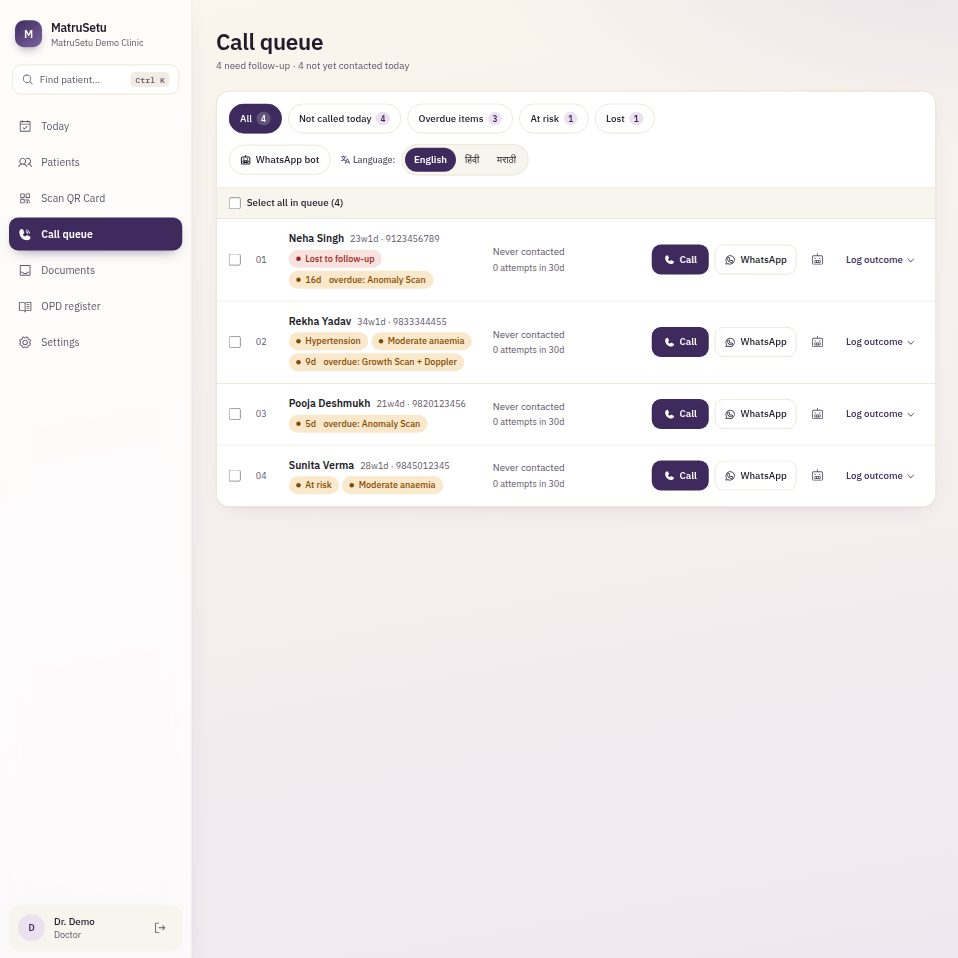
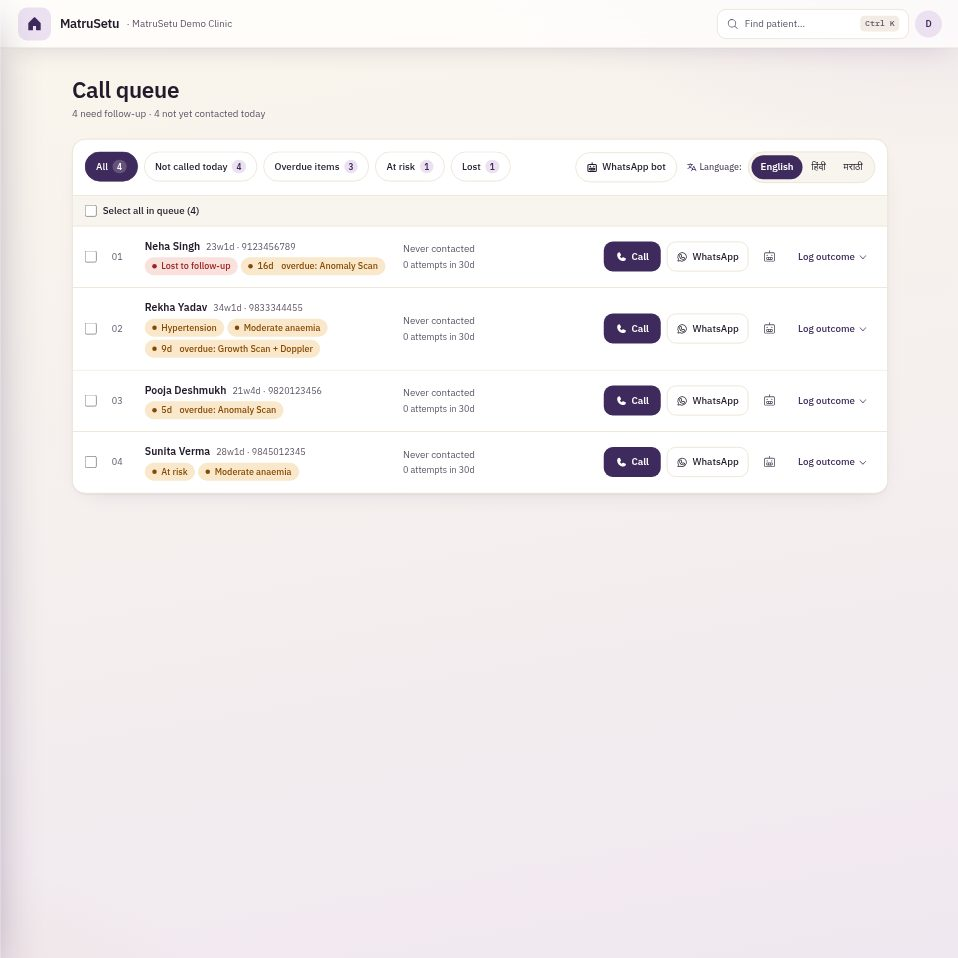
feat(nav): replace fixed sidebar with top bar and slide-in menu
- New AppTopBar on every app page: Home button (opens menu), MatruSetu
  name + clinic, patient search, user initials
- Clicking Home slides the full menu (pages, search, profile, sign out)
  in from the left over a dimmed backdrop; closes on Esc, backdrop
  click, the close button, or choosing a page; focus moves into the menu
  and back to the button; page scroll locked while open
- Page content now uses the full width; mobile bottom tab bar kept
- Landing-page screenshots regenerated to show the new layout

Claude-Session: https://claude.ai/code/session_01CiX3ytQ4sim5xmaV85mrhR

diff --git a/components/AppNav.tsx b/components/AppNav.tsx
@@ -1,6 +1,7 @@
 "use client";
 
 import Link from "next/link";
+import { useCallback, useEffect, useRef, useState } from "react";
 import { usePathname } from "next/navigation";
 import {
   CalendarCheck,
@@ -12,6 +13,8 @@ import {
   MagnifyingGlass,
   SignOut,
   QrCode,
+  House,
+  X,
 } from "@phosphor-icons/react";
 import { logout } from "@/app/(auth)/actions";
 import { openCommandPalette } from "@/components/CommandPalette";
@@ -45,7 +48,7 @@ function initials(name: string): string {
   return ((parts[0]?.[0] ?? "") + (parts.length > 1 ? parts[parts.length - 1][0] : "")).toUpperCase();
 }
 
-export function AppSidebar({
+export function AppTopBar({
   clinicName,
   userName,
   isDoctor,
@@ -55,93 +58,178 @@ export function AppSidebar({
   isDoctor: boolean;
 }) {
   const pathname = usePathname();
+  const [open, setOpen] = useState(false);
+  const menuButtonRef = useRef<HTMLButtonElement>(null);
+  const firstLinkRef = useRef<HTMLAnchorElement>(null);
   const items = isDoctor ? [...NAV_ITEMS, { href: "/settings", label: "Settings", icon: Gear }] : NAV_ITEMS;
 
+  const close = useCallback(() => {
+    setOpen(false);
+    menuButtonRef.current?.focus();
+  }, []);
+
+  // Esc closes; page scroll is locked while the menu is open.
+  useEffect(() => {
+    if (!open) return;
+    firstLinkRef.current?.focus();
+    const onKey = (e: KeyboardEvent) => {
+      if (e.key === "Escape") close();
+    };
+    const prevOverflow = document.body.style.overflow;
+    document.body.style.overflow = "hidden";
+    window.addEventListener("keydown", onKey);
+    return () => {
+      window.removeEventListener("keydown", onKey);
+      document.body.style.overflow = prevOverflow;
+    };
+  }, [open, close]);
+
   return (
-    <aside className="pc-glass sticky top-0 hidden h-dvh w-64 shrink-0 flex-col !rounded-none !border-y-0 !border-l-0 md:flex">
-      <div className="flex items-center gap-3 px-5 pb-4 pt-6">
-        <BrandMark />
-        <div className="min-w-0">
-          <p className="text-[16px] font-semibold tracking-tight text-[var(--color-foreground)]">MatruSetu</p>
-          <p className="truncate text-[12px] text-[var(--color-charcoal)]">{clinicName}</p>
-        </div>
-      </div>
-
-      <button
-        type="button"
-        onClick={openCommandPalette}
-        className="mx-4 mt-1 flex min-h-10 items-center gap-2 rounded-xl border border-[var(--color-border)] bg-[var(--color-background)] px-3 text-left text-[13px] text-[var(--color-charcoal)] transition-colors hover:border-[var(--color-primary)]"
-      >
-        <MagnifyingGlass size={16} aria-hidden />
-        <span className="flex-1">Find patient…</span>
-        <kbd className="rounded-md bg-[var(--color-surface-2)] px-1.5 py-0.5 text-[11px] font-medium">Ctrl K</kbd>
-      </button>
-
-      <nav className="mt-5 flex flex-1 flex-col gap-1 px-3" aria-label="Primary">
-        {items.map(({ href, label, icon: Icon }) => {
-          const active = isActive(pathname, href);
-          return (
-            <Link
-              key={href}
-              href={href}
-              aria-current={active ? "page" : undefined}
-              className={`flex min-h-11 items-center gap-3 rounded-xl px-3 text-[14px] transition-colors duration-150 ${
-                active
-                  ? "bg-[var(--color-primary)] font-semibold text-white shadow-[0_8px_18px_-10px_rgb(62_42_92/0.7)]"
-                  : "text-[var(--color-charcoal)] hover:bg-[var(--color-primary-surface)] hover:text-[var(--color-primary)]"
-              }`}
-            >
-              <Icon size={19} weight={active ? "fill" : "regular"} aria-hidden />
-              {label}
-            </Link>
-          );
-        })}
-      </nav>
-
-      <div className="m-3 flex items-center gap-3 rounded-2xl bg-[var(--color-surface-1)] p-3">
-        <span
-          aria-hidden
-          className="flex h-9 w-9 shrink-0 items-center justify-center rounded-full bg-[var(--color-primary-surface)] text-[12px] font-semibold text-[var(--color-primary)]"
-        >
-          {initials(userName)}
-        </span>
-        <div className="min-w-0 flex-1">
-          <p className="truncate text-[13px] font-medium text-[var(--color-foreground)]">{userName}</p>
-          <p className="text-[12px] text-[var(--color-charcoal)]">{isDoctor ? "Doctor" : "Staff"}</p>
-        </div>
-        <form action={logout}>
+    <>
+      <header className="pc-glass sticky top-0 z-30 flex h-16 items-center justify-between gap-3 !rounded-none !border-x-0 !border-t-0 px-3 md:px-6">
+        <div className="flex min-w-0 items-center gap-3">
           <button
-            type="submit"
-            className="flex min-h-9 min-w-9 items-center justify-center rounded-lg text-[var(--color-charcoal)] transition-colors hover:bg-[var(--color-primary-surface)] hover:text-[var(--color-primary)]"
-            aria-label="Sign out"
-            title="Sign out"
+            ref={menuButtonRef}
+            type="button"
+            onClick={() => setOpen(true)}
+            aria-label="Open menu"
+            aria-expanded={open}
+            aria-controls="app-menu"
+            title="Menu"
+            className="flex h-11 w-11 shrink-0 items-center justify-center rounded-xl bg-[var(--color-primary-surface)] text-[var(--color-primary)] transition-colors hover:bg-[var(--color-primary)] hover:text-white"
           >
-            <SignOut size={18} aria-hidden />
+            <House size={22} weight="fill" aria-hidden />
           </button>
-        </form>
-      </div>
-    </aside>
-  );
-}
+          <Link href="/today" className="flex min-w-0 items-center gap-2.5">
+            <span className="text-[17px] font-semibold tracking-tight text-[var(--color-foreground)]">MatruSetu</span>
+            <span className="hidden truncate text-[13px] text-[var(--color-charcoal)] sm:inline">· {clinicName}</span>
+          </Link>
+        </div>
 
-export function AppMobileHeader() {
-  return (
-    <header className="pc-glass sticky top-0 z-20 flex items-center justify-between !rounded-none !border-x-0 !border-t-0 px-4 py-1.5 md:hidden">
-      <span className="flex items-center gap-2.5">
-        <BrandMark />
-        <span className="text-[16px] font-semibold tracking-tight">MatruSetu</span>
-      </span>
-      <div className="flex items-center text-[var(--color-charcoal)]">
-        <button type="button" onClick={openCommandPalette} className="flex min-h-11 min-w-11 items-center justify-center" aria-label="Find patient">
-          <MagnifyingGlass size={21} aria-hidden />
-        </button>
-        <form action={logout}>
-          <button type="submit" className="flex min-h-11 min-w-11 items-center justify-center" aria-label="Sign out">
-            <SignOut size={21} aria-hidden />
+        <div className="flex items-center gap-2">
+          <button
+            type="button"
+            onClick={openCommandPalette}
+            className="hidden min-h-10 w-64 items-center gap-2 rounded-xl border border-[var(--color-border)] bg-[var(--color-background)] px-3 text-left text-[13px] text-[var(--color-charcoal)] transition-colors hover:border-[var(--color-primary)] md:flex"
+          >
+            <MagnifyingGlass size={16} aria-hidden />
+            <span className="flex-1">Find patient…</span>
+            <kbd className="rounded-md bg-[var(--color-surface-2)] px-1.5 py-0.5 text-[11px] font-medium">Ctrl K</kbd>
           </button>
-        </form>
-      </div>
-    </header>
+          <button
+            type="button"
+            onClick={openCommandPalette}
+            className="flex h-11 w-11 items-center justify-center rounded-xl text-[var(--color-charcoal)] hover:bg-[var(--color-primary-surface)] hover:text-[var(--color-primary)] md:hidden"
+            aria-label="Find patient"
+          >
+            <MagnifyingGlass size={21} aria-hidden />
+          </button>
+          <span
+            aria-hidden
+            title={userName}
+            className="hidden h-9 w-9 items-center justify-center rounded-full bg-[var(--color-primary-surface)] text-[12px] font-semibold text-[var(--color-primary)] sm:flex"
+          >
+            {initials(userName)}
+          </span>
+        </div>
+      </header>
+
+      {/* Slide-in menu */}
+      <div
+        aria-hidden
+        onClick={close}
+        className={`fixed inset-0 z-40 bg-[rgb(34_27_43/0.32)] backdrop-blur-[2px] transition-opacity duration-300 ${
+          open ? "opacity-100" : "pointer-events-none opacity-0"
+        }`}
+      />
+      <aside
+        id="app-menu"
+        role="dialog"
+        aria-modal="true"
+        aria-label="Main menu"
+        inert={!open}
+        className={`fixed inset-y-0 left-0 z-50 flex w-72 max-w-[85vw] flex-col bg-[var(--color-background)] shadow-[0_24px_60px_-12px_rgb(62_42_92/0.45)] transition-transform duration-300 ease-out ${
+          open ? "translate-x-0" : "-translate-x-full"
+        }`}
+      >
+        <div className="flex items-center justify-between gap-3 px-5 pb-4 pt-5">
+          <div className="flex min-w-0 items-center gap-3">
+            <BrandMark />
+            <div className="min-w-0">
+              <p className="text-[16px] font-semibold tracking-tight text-[var(--color-foreground)]">MatruSetu</p>
+              <p className="truncate text-[12px] text-[var(--color-charcoal)]">{clinicName}</p>
+            </div>
+          </div>
+          <button
+            type="button"
+            onClick={close}
+            aria-label="Close menu"
+            className="flex h-10 w-10 items-center justify-center rounded-xl text-[var(--color-charcoal)] hover:bg-[var(--color-primary-surface)] hover:text-[var(--color-primary)]"
+          >
+            <X size={20} aria-hidden />
+          </button>
+        </div>
+
+        <button
+          type="button"
+          onClick={() => {
+            setOpen(false);
+            openCommandPalette();
+          }}
+          className="mx-4 flex min-h-10 items-center gap-2 rounded-xl border border-[var(--color-border)] bg-[var(--color-surface-1)] px-3 text-left text-[13px] text-[var(--color-charcoal)] transition-colors hover:border-[var(--color-primary)]"
+        >
+          <MagnifyingGlass size={16} aria-hidden />
+          <span className="flex-1">Find patient…</span>
+          <kbd className="rounded-md bg-[var(--color-background)] px-1.5 py-0.5 text-[11px] font-medium">Ctrl K</kbd>
+        </button>
+
+        <nav className="mt-5 flex flex-1 flex-col gap-1 overflow-y-auto px-3" aria-label="Primary">
+          {items.map(({ href, label, icon: Icon }, i) => {
+            const active = isActive(pathname, href);
+            return (
+              <Link
+                key={href}
+                ref={i === 0 ? firstLinkRef : undefined}
+                href={href}
+                onClick={() => setOpen(false)}
+                aria-current={active ? "page" : undefined}
+                className={`flex min-h-12 items-center gap-3 rounded-xl px-3 text-[15px] transition-colors duration-150 ${
+                  active
+                    ? "bg-[var(--color-primary)] font-semibold text-white shadow-[0_8px_18px_-10px_rgb(62_42_92/0.7)]"
+                    : "text-[var(--color-charcoal)] hover:bg-[var(--color-primary-surface)] hover:text-[var(--color-primary)]"
+                }`}
+              >
+                <Icon size={20} weight={active ? "fill" : "regular"} aria-hidden />
+                {label}
+              </Link>
+            );
+          })}
+        </nav>
+
+        <div className="m-3 flex items-center gap-3 rounded-2xl bg-[var(--color-surface-1)] p-3">
+          <span
+            aria-hidden
+            className="flex h-9 w-9 shrink-0 items-center justify-center rounded-full bg-[var(--color-primary-surface)] text-[12px] font-semibold text-[var(--color-primary)]"
+          >
+            {initials(userName)}
+          </span>
+          <div className="min-w-0 flex-1">
+            <p className="truncate text-[13px] font-medium text-[var(--color-foreground)]">{userName}</p>
+            <p className="text-[12px] text-[var(--color-charcoal)]">{isDoctor ? "Doctor" : "Staff"}</p>
+          </div>
+          <form action={logout}>
+            <button
+              type="submit"
+              className="flex min-h-9 min-w-9 items-center justify-center rounded-lg text-[var(--color-charcoal)] transition-colors hover:bg-[var(--color-primary-surface)] hover:text-[var(--color-primary)]"
+              aria-label="Sign out"
+              title="Sign out"
+            >
+              <SignOut size={18} aria-hidden />
+            </button>
+          </form>
+        </div>
+      </aside>
+    </>
   );
 }
 

diff --git a/app/(app)/layout.tsx b/app/(app)/layout.tsx
@@ -1,14 +1,13 @@
 import { getCurrentUser } from "@/lib/auth";
-import { AppSidebar, AppMobileHeader, AppBottomNav } from "@/components/AppNav";
+import { AppTopBar, AppBottomNav } from "@/components/AppNav";
 import { CommandPalette } from "@/components/CommandPalette";
 
 export default async function AppLayout({ children }: { children: React.ReactNode }) {
   const me = await getCurrentUser();
 
   return (
-    <div className="flex min-h-dvh flex-col md:flex-row">
-      <AppMobileHeader />
-      <AppSidebar clinicName={me.clinicName} userName={me.fullName} isDoctor={me.role === "doctor"} />
+    <div className="flex min-h-dvh flex-col">
+      <AppTopBar clinicName={me.clinicName} userName={me.fullName} isDoctor={me.role === "doctor"} />
       <main className="min-w-0 flex-1 pb-20 md:pb-0">{children}</main>
       <AppBottomNav />
       <CommandPalette />
